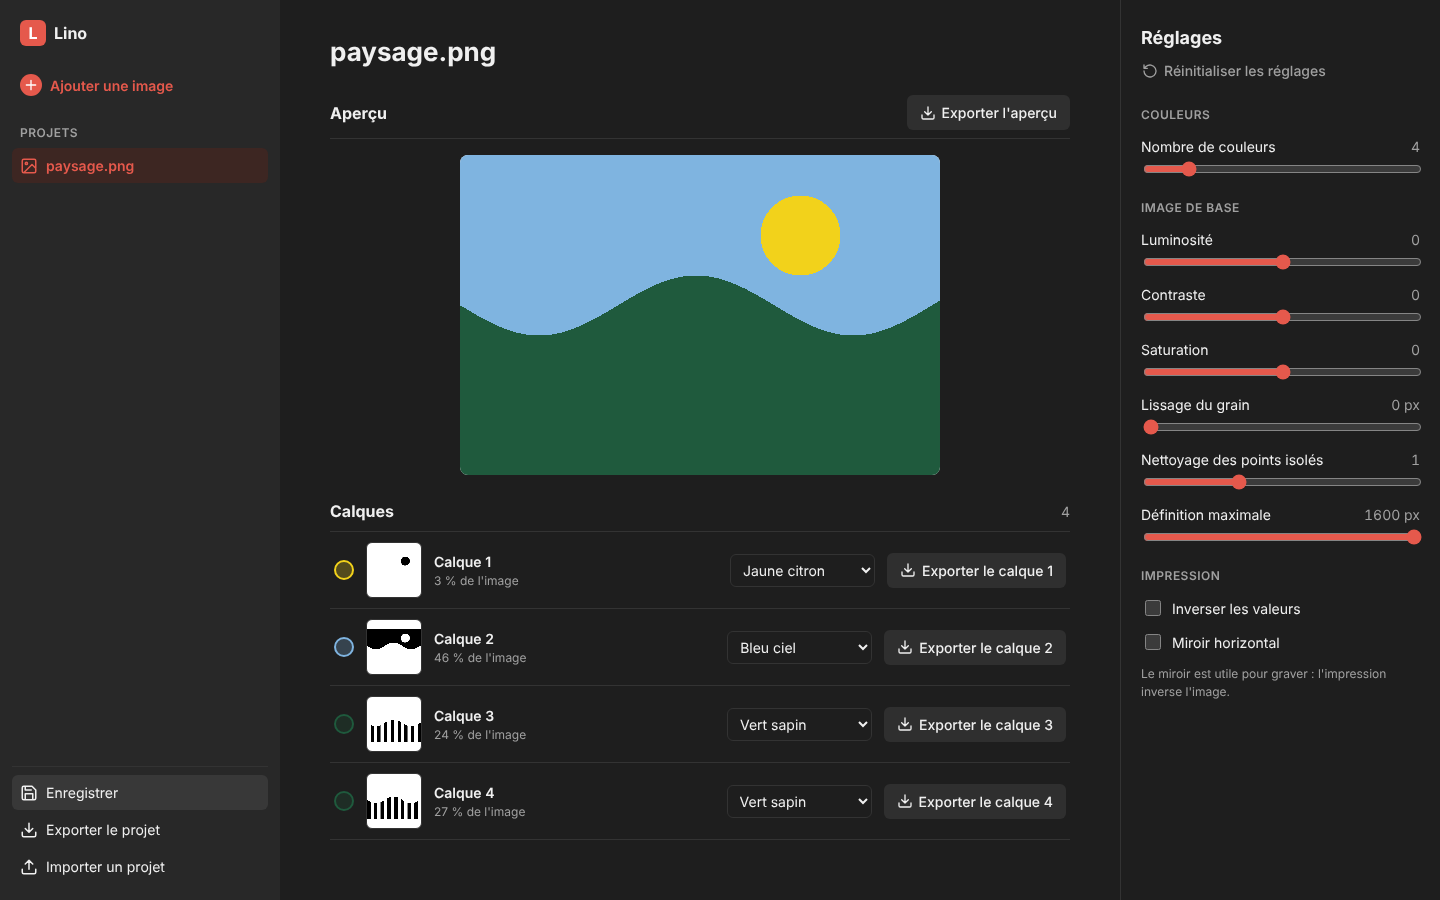
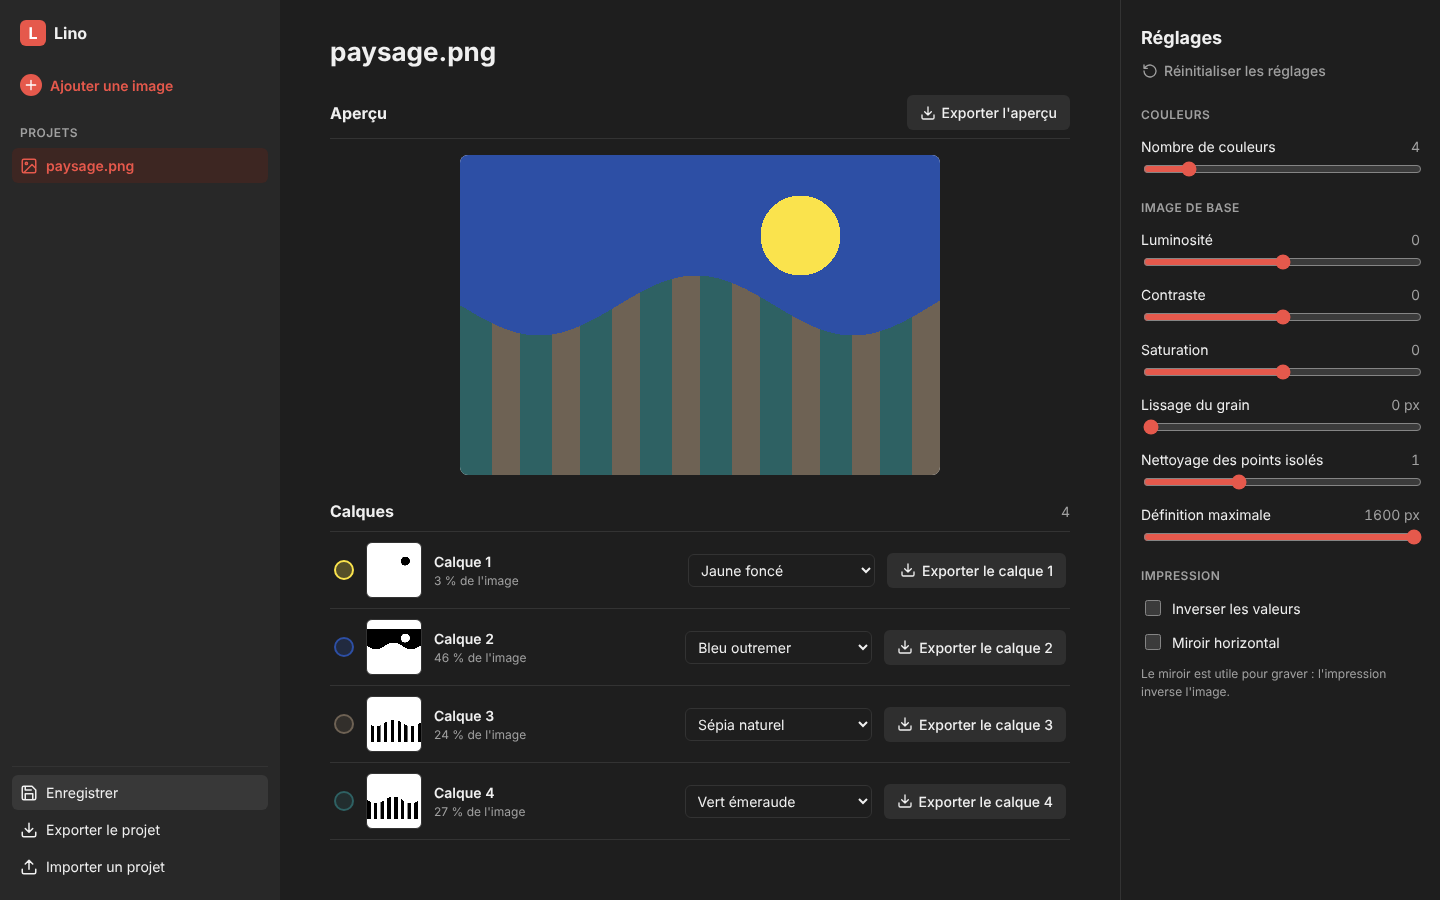
feat(palette): remplacer les teintes par les 24 encres Aqua Wash 60 ml
Noms, références et codes hex relevés sur les pastilles du site du
fournisseur. Test de validité de la palette livrée, tests e2e adaptés
aux nouvelles teintes, README et captures mis à jour.

Claude-Session: https://claude.ai/code/session_01JUgPasNjVoT3TfD4y5V7Mf

diff --git a/e2e/lino.spec.ts b/e2e/lino.spec.ts
@@ -23,8 +23,8 @@ test('charger, séparer en 4 calques, attribuer une teinte, exporter', async ({ 
   await page.getByTestId('file-input').setInputFiles({ name: 'quad.png', mimeType: 'image/png', buffer: quadrantsPng() });
   await expect(page.getByTestId('layer-card')).toHaveCount(4);
 
-  await page.getByLabel('Teinte du calque 1').selectOption({ label: 'Violet' });
-  await expect(page.getByLabel('Teinte du calque 1')).toHaveValue('violet');
+  await page.getByLabel('Teinte du calque 1').selectOption({ label: 'Gris Payne' });
+  await expect(page.getByLabel('Teinte du calque 1')).toHaveValue('gris-payne');
 
   const [layerDownload] = await Promise.all([
     page.waitForEvent('download'),
@@ -58,7 +58,7 @@ test('sauvegarde puis réouverture d\'un projet restaure les teintes', async ({ 
   await page.goto('/');
   await page.getByTestId('file-input').setInputFiles({ name: 'quad.png', mimeType: 'image/png', buffer: quadrantsPng() });
   await expect(page.getByTestId('layer-card')).toHaveCount(4);
-  await page.getByLabel('Teinte du calque 2').selectOption({ label: 'Rose' });
+  await page.getByLabel('Teinte du calque 2').selectOption({ label: 'Bistre' });
   await page.getByRole('button', { name: 'Enregistrer' }).click();
   // Attendre la fin de l'écriture IndexedDB avant de recharger.
   await expect(page.getByRole('button', { name: 'quad.png', exact: true })).toBeVisible();
@@ -66,7 +66,7 @@ test('sauvegarde puis réouverture d\'un projet restaure les teintes', async ({ 
   await page.reload();
   await page.getByRole('button', { name: 'quad.png', exact: true }).click();
   await expect(page.getByTestId('layer-card')).toHaveCount(4);
-  await expect(page.getByLabel('Teinte du calque 2')).toHaveValue('rose');
+  await expect(page.getByLabel('Teinte du calque 2')).toHaveValue('bistre');
 });
 
 test('les réglages d\'image modifient le résultat et se réinitialisent', async ({ page }) => {
@@ -93,12 +93,12 @@ test('les réglages sont enregistrés avec le projet et teintes choisies conserv
   await page.goto('/');
   await page.getByTestId('file-input').setInputFiles({ name: 'quad.png', mimeType: 'image/png', buffer: quadrantsPng() });
   await expect(page.getByTestId('layer-card')).toHaveCount(4);
-  await page.getByLabel('Teinte du calque 1').selectOption({ label: 'Violet' });
+  await page.getByLabel('Teinte du calque 1').selectOption({ label: 'Gris Payne' });
   await page.getByLabel('Contraste').fill('20');
   await page.getByLabel('Miroir horizontal').check();
   // Un réglage qui ne change pas le nombre de calques garde la teinte choisie à la main.
   await expect(page.getByTestId('layer-card')).toHaveCount(4);
-  await expect(page.getByLabel('Teinte du calque 1')).toHaveValue('violet');
+  await expect(page.getByLabel('Teinte du calque 1')).toHaveValue('gris-payne');
   await page.getByRole('button', { name: 'Enregistrer' }).click();
   // Attendre la fin de l'écriture IndexedDB avant de recharger.
   await expect(page.getByRole('button', { name: 'quad.png', exact: true })).toBeVisible();
@@ -107,5 +107,5 @@ test('les réglages sont enregistrés avec le projet et teintes choisies conserv
   await page.getByRole('button', { name: 'quad.png', exact: true }).click();
   await expect(page.getByLabel('Contraste')).toHaveValue('20');
   await expect(page.getByLabel('Miroir horizontal')).toBeChecked();
-  await expect(page.getByLabel('Teinte du calque 1')).toHaveValue('violet');
+  await expect(page.getByLabel('Teinte du calque 1')).toHaveValue('gris-payne');
 });

diff --git a/src/core/palette.test.ts b/src/core/palette.test.ts
@@ -1,3 +1,4 @@
+import { readFileSync } from 'node:fs';
 import { describe, expect, test } from 'vitest';
 import { hexToRgb, loadPalette, nearestSwatch, parsePalette } from './palette';
 
@@ -47,5 +48,23 @@ describe('hexToRgb / nearestSwatch', () => {
     const sw = parsePalette(valid).swatches;
     expect(nearestSwatch(sw, [200, 30, 40]).id).toBe('rouge');
     expect(nearestSwatch(sw, [20, 20, 20]).id).toBe('noir');
+  });
+});
+
+describe('palette livrée avec l\'application', () => {
+  const shipped = parsePalette(JSON.parse(readFileSync('public/palettes/linocut-inks.json', 'utf8')));
+
+  test('est valide et contient les 24 encres', () => {
+    expect(shipped.swatches).toHaveLength(24);
+  });
+
+  test('chaque teinte a une référence, toutes différentes', () => {
+    const refs = shipped.swatches.map((s) => s.ref);
+    expect(refs.every((r) => typeof r === 'string' && r.length > 0)).toBe(true);
+    expect(new Set(refs).size).toBe(refs.length);
+  });
+
+  test('la teinte la plus proche d\'un jaune vif est un jaune', () => {
+    expect(nearestSwatch(shipped.swatches, [255, 240, 80]).name).toMatch(/^Jaune/);
   });
 });

diff --git a/README.md b/README.md
@@ -29,7 +29,7 @@ bien distinctes, une zone par plaque.
 
 Lino fait ce découpage. Vous choisissez le **nombre de couleurs** (de 2 à 16) ; Lino regroupe les couleurs de
 l'image en autant de familles et en tire un **calque** par famille. Chaque calque reçoit une **teinte d'encre**,
-choisie dans une bibliothèque d'encres de linogravure. Les calques s'exportent en noir et blanc : le noir est ce qui
+choisie dans une bibliothèque d'encres : les 24 couleurs de l'encre **Aqua Wash 60 ml** de Rougier & Plé, avec leur référence. Les calques s'exportent en noir et blanc : le noir est ce qui
 reçoit l'encre, le blanc ce qui sera creusé.
 
 C'est un outil personnel : pas de compte, pas de serveur, rien à installer.
@@ -163,18 +163,24 @@ Les teintes sont dans `public/palettes/*.json`. Format :
 
 ```json
 {
-  "id": "linocut-inks",
-  "name": "Encres de linogravure",
+  "id": "aqua-wash-60ml",
+  "name": "Encre Aqua Wash 60 ml",
   "swatches": [
-    { "id": "noir", "name": "Noir", "hex": "#16161a" },
-    { "id": "rouge-vermillon", "name": "Rouge vermillon", "hex": "#d93a26", "ref": "R-01" }
+    { "id": "blanc-de-titane", "name": "Blanc de titane", "hex": "#fffffd", "ref": "490488" },
+    { "id": "bleu-ocean", "name": "Bleu océan", "hex": "#1a3982", "ref": "490479" }
   ]
 }
 ```
 
 `id` est unique dans la palette, `hex` s'écrit `#rrggbb`, `ref` (référence d'encre) est facultatif. `parsePalette`
-rejette une palette invalide avec un message « Palette invalide : … ». L'application charge `linocut-inks.json`.
-La teinte proposée pour un calque est la plus proche de son centroïde, mesurée dans Lab.
+rejette une palette invalide avec un message « Palette invalide : … ». L'application charge `linocut-inks.json`
+(le nom du fichier est resté, son contenu est la palette Aqua Wash) ; un test vérifie que cette palette est valide,
+complète et que les références sont uniques. La teinte proposée pour un calque est la plus proche de son centroïde,
+mesurée dans Lab.
+
+Les codes `hex` ont été relevés sur les pastilles de couleur du site du fournisseur (rendu à l'écran) : ils donnent
+une bonne approximation, pas une mesure de l'encre imprimée. Plusieurs noirs ont la même valeur (`#000000` ou `#171717`) ;
+à couleur égale, la première teinte de la liste est proposée.
 
 ## Persistance
 
